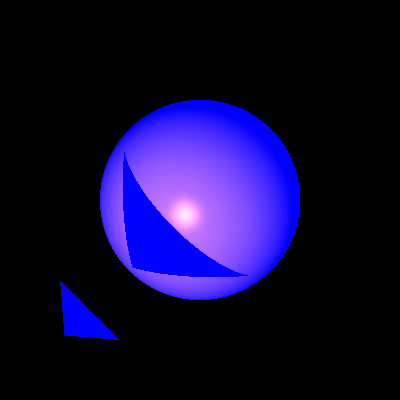
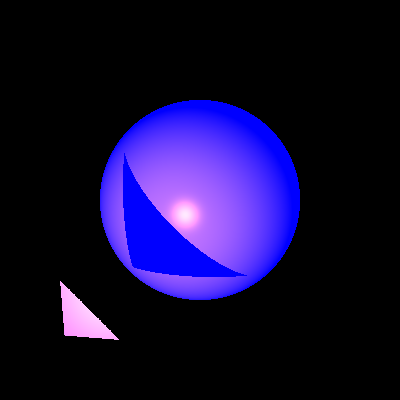
corrected rendering shlav 6

Changed region(s): [[0.15, 0.69, 0.3, 0.87]]

diff --git a/src/renderer/RayTracerBasic.java b/src/renderer/RayTracerBasic.java
@@ -12,6 +12,11 @@ import static primitives.Util.*;
 
 public class RayTracerBasic extends RayTracer {
     private static final double DELTA = 0.1;
+    private static final int MAX_CALC_COLOR_LEVEL = 10;
+    private static final double MIN_CALC_COLOR_K = 0.001;
+    private static final double INITIAL_K = 1.0;
+
+
     /**
      * scene setter
      *
@@ -30,18 +35,50 @@ public class RayTracerBasic extends RayTracer {
     @Override
     public Color traceRay(Ray ray) {
         List<GeoPoint> myPoints = _scene._geometries.findGeoIntersections(ray);
-        if (myPoints != null) {
-            GeoPoint myPoint = ray.getClosestGeoPoint(myPoints);
-            return calcColor(myPoint,ray);
+           GeoPoint closestPoint = ray.getClosestGeoPoint(myPoints);
+           if (closestPoint != null)
+               return calcColor(closestPoint, ray);
+            return _scene._background;
+
+    }
+    private Color calcColor(GeoPoint intersection, Ray ray,int level,Double3 k) {
+        Color color = intersection._geometry.getEmission()
+                .add(calcLocalEffects(intersection,ray,k));
+        return 1 == level ? color : color.add(calcGlobalEffects(intersection, ray, level, k));
+
+    }
+    /**
+     * Calculate color using recursive function
+     *
+     * @param geopoint the point of intersection
+     * @param ray      the ray
+     * @return the color
+     */
+    private Color calcColor(GeoPoint geopoint, Ray ray) {
+        return calcColor(geopoint, ray, MAX_CALC_COLOR_LEVEL,new Double3(INITIAL_K))
+                .add(_scene._ambientLight.getIntensity());
+    }
+    private Color calcGlobalEffects(GeoPoint intersection, Ray inRay, int level, Double3 k) {
+        Color color = Color.BLACK;
+        Double3 kr= intersection._geometry.getMaterial()._kR;Double3 kkr=kr.product(k);
+        Vector n = intersection._geometry.getNormal(intersection._point);
+        if(kkr.lowerThan(MIN_CALC_COLOR_K)==false){
+            Ray reflectedRay = constructReflectedRay(n, intersection._point, inRay);
+            GeoPoint reflectedPoint = findClosestIntersection(reflectedRay);
+            if (reflectedPoint != null)
+                color= color.add(calcColor(reflectedPoint,reflectedRay,level-1,kkr).scale(kr));
         }
-        return _scene._background;
+        Double3 kt=intersection._geometry.getMaterial()._kT;Double3 kkt=kt.product(k);
+        if(kkt.lowerThan(MIN_CALC_COLOR_K)==false){
+            Ray refractedRay = constructRefractedRay(n, intersection._point, inRay);
+            GeoPoint refractedPoint = findClosestIntersection(refractedRay);
+            if (refractedPoint != null)
+                color= color.add(calcColor(refractedPoint,refractedRay,level-1,kkt).scale(kt));
+        }
+        return color;
     }
-    private Color calcColor(GeoPoint intersection, Ray ray) {
-        return _scene._ambientLight.getIntensity()
-                .add(intersection._geometry.getEmission())
-                .add(calcLocalEffects(intersection,ray));
-    }
-    private Color calcLocalEffects(GeoPoint intersection, Ray ray) {
+
+    private Color calcLocalEffects(GeoPoint intersection, Ray ray,Double3 k) {
         Vector v = ray.getDir();
         Vector n = intersection._geometry.getNormal(intersection._point);
         double nv= alignZero(n.dotProduct(v));
@@ -54,12 +91,12 @@ public class RayTracerBasic extends RayTracer {
             Vector l = lightSource.getL(intersection._point);
             double nl= alignZero(n.dotProduct(l));
             if (nl * nv> 0) { // sign(nl) == sing(nv)\
-                if (unshaded(intersection, l, n, lightSource)){
-
-                Color lightIntensity= lightSource.getIntensity(intersection._point);
-                color = color.add(calcDiffusive(kd, l, n, lightIntensity).add(
-                        calcSpecular(ks, l, n, v, nShininess, lightIntensity)));
+                if (unshaded(intersection, l, n, lightSource,nv)) {
+                    Color lightIntensity = lightSource.getIntensity(intersection._point);
+                    color = color.add(calcDiffusive(kd, l, n, lightIntensity),
+                            calcSpecular(ks, l, n, v, nShininess, lightIntensity));
                 }
+
             }
         }
         return color;
@@ -99,18 +136,79 @@ public class RayTracerBasic extends RayTracer {
         return lightIntensity.scale(kd.scale(Math.abs(lN)));
     }
 
-    private boolean unshaded(GeoPoint gp, Vector l, Vector n, LightSource ls){
-        Vector lightDir = l.scale(-1);
-        Ray lightRay = new Ray(gp._point, n, lightDir);
+    private boolean unshaded(GeoPoint gp, Vector l, Vector n, LightSource ls,double nv){
+        Vector lightDir = l.scale(-1);// from point to light source
+        Vector epsVector= n.scale(nv<0?DELTA:-DELTA);
+        Point point = gp._point.add(epsVector);
+        Ray lightRay = new Ray(point, n, lightDir);
         List<GeoPoint> intersections = _scene._geometries.findGeoIntersections(lightRay);
-        if (intersections == null)
-            return true;
-        else{
-            for (GeoPoint gp2 : intersections){
-                if (ls.getDistance(gp2._point) < ls.getDistance(gp._point))
+        if (intersections != null) {
+            for (GeoPoint gp2 : intersections) {
+                if (gp2._geometry.getMaterial()._kT.equals(new Double3(0.0))) {
                     return false;
+                }
             }
         }
         return true;
     }
+    private double transparency(GeoPoint gp, Vector l, Vector n, LightSource ls,double nv){
+        Vector lightDir = l.scale(-1);// from point to light source
+        Vector epsVector= n.scale(nv<0?DELTA:-DELTA);
+        Point point = gp._point.add(epsVector);
+        Ray lightRay = new Ray(point, n, lightDir);
+        double lightDistance = ls.getDistance(gp._point);
+        var intersections = _scene._geometries.findGeoIntersections(lightRay);
+        if (intersections == null) return 1.0; //no intersection
+        Double3 ktr =new Double3( 1.0);
+        for (GeoPoint geoPoint : intersections) {
+            if (alignZero(geoPoint._point.distance(gp._point) - lightDistance) <= 0) {
+              ktr=   ktr.scale(geoPoint._geometry.getMaterial()._kT)0;
+                if (ktr.lowerThan( MIN_CALC_COLOR_K)) return 0.0;
+            }
+        }
+        return ktr;
+    }
+    /**
+     * Construct the ray refracted by an intersection with the geometry
+     * @param n normal to the geometry at intersection
+     * @param point the intersection point
+     * @param innerRay the ray entering
+     * @return refracted ray (in our project there is no refraction incidence, so we return a new ray with the same characteristics)
+     */
+    private Ray constructRefractedRay(Vector n, Point point, Ray innerRay) {
+        return new Ray(point, innerRay.getDir(), n);
+    }
+
+    /**
+     * Construct the ray getting reflected on an intersection point
+     * @param n normal to the point
+     * @param point the intersection point
+     * @param innerRay the ray entering at the intersection
+     * @return the reflected ray
+     */
+    private Ray constructReflectedRay(Vector n, Point point, Ray innerRay) {
+        //r = v - 2 * (v*n) * n
+        //r is the reflected ray
+        Vector v = innerRay.getDir();
+        Vector r = null;
+        try {
+            r = v.substract(n.scale(v.dotProduct(n)).scale(2)).normalize();
+        } catch (Exception e) {
+            return null;
+        }
+        return new Ray(point, r, n);
+    }
+
+    /**
+     * Find the closest intersection point between a ray base and the scene's geometries
+     * @param ray the ray
+     * @return the closest point
+     */
+    private GeoPoint findClosestIntersection(Ray ray) {
+        List<GeoPoint> geoPoints = _scene._geometries.findGeoIntersections(ray);
+        return ray.getClosestGeoPoint(geoPoints);
+    }
+
+
+
 }

diff --git a/unitTests/renderer/ReflectionRefractionTests.java b/unitTests/renderer/ReflectionRefractionTests.java
@@ -1,0 +1,111 @@
+/**
+ * 
+ */
+package renderer;
+
+import org.junit.jupiter.api.Test;
+
+import static java.awt.Color.*;
+
+import renderer.ImageWriter;
+import lighting.*;
+import geometries.*;
+import primitives.*;
+import renderer.*;
+import renderer.scene.Scene;
+
+
+/**
+ * Tests for reflection and transparency functionality, test for partial shadows
+ * (with transparency)
+ * 
+ * @author dzilb
+ */
+public class ReflectionRefractionTests {
+	private Scene scene = new Scene.SceneBuilder("Test scene").build();
+
+	/**
+	 * Produce a picture of a sphere lighted by a spot light
+	 */
+	@Test
+	public void twoSpheres() {
+		Camera camera = new Camera(new Point(0, 0, 1000), new Vector(0, 0, -1), new Vector(0, 1, 0)) //
+				.setVPSize(150, 150).setVPDistance(1000);
+
+		scene._geometries.add( //
+				new Sphere(new Point(0, 0, -50), 50d).setEmission(new Color(BLUE)) //
+						.setMaterial(new Material().setKd(0.4).setKs(0.3).setnShininess(100).setKt(0.3)),
+				new Sphere(new Point(0, 0, -50), 25d).setEmission(new Color(RED)) //
+						.setMaterial(new Material().setKd(0.5).setKs(0.5).setnShininess(100)));
+		scene.lights.add( //
+				new SpotLight(new Color(1000, 600, 0), new Point(-100, -100, 500), new Vector(-1, -1, -2)) //
+						.setKl(0.0004).setKq(0.0000006));
+
+		camera.setImageWriter(new ImageWriter("refractionTwoSpheres", 500, 500)) //
+				.setRayTracer(new RayTracerBasic(scene)) //
+				.renderImage();
+		camera.writeToImage();
+	}
+
+	/**
+	 * Produce a picture of a sphere lighted by a spot light
+	 */
+	@Test
+	public void twoSpheresOnMirrors() {
+		Camera camera = new Camera(new Point(0, 0, 10000), new Vector(0, 0, -1), new Vector(0, 1, 0)) //
+				.setVPSize(2500, 2500).setVPDistance(10000); //
+
+		scene._ambientLight= new AmbientLight(new Color(255, 255, 255), new Double3(0.1));
+
+		scene._geometries.add( //
+				new Sphere(new Point(-950, -900, -1000), 400d).setEmission(new Color(0, 0, 100)) //
+						.setMaterial(new Material().setKd(0.25).setKs(0.25).setnShininess(20).setKt(0.5)),
+				new Sphere(new Point(-950, -900, -1000), 200d).setEmission(new Color(100, 20, 20)) //
+						.setMaterial(new Material().setKd(0.25).setKs(0.25).setnShininess(20)),
+				new Triangle(new Point(1500, -1500, -1500), new Point(-1500, 1500, -1500), new Point(670, 670, 3000)) //
+						.setEmission(new Color(20, 20, 20)) //
+						.setMaterial(new Material().setKr(1)),
+				new Triangle(new Point(1500, -1500, -1500), new Point(-1500, 1500, -1500),
+						new Point(-1500, -1500, -2000)) //
+						.setEmission(new Color(20, 20, 20)) //
+						.setMaterial(new Material().setKr(0.5)));
+
+		scene.lights.add(new SpotLight(new Color(1020, 400, 400), new Point(-750, -750, -150), new Vector(-1, -1, -4)) //
+				.setKl(0.00001).setKq(0.000005));
+
+		ImageWriter imageWriter = new ImageWriter("reflectionTwoSpheresMirrored", 500, 500);
+		camera.setImageWriter(imageWriter) //
+				.setRayTracer(new RayTracerBasic(scene)) //
+				.renderImage();
+		camera.writeToImage();
+	}
+
+	/**
+	 * Produce a picture of a two triangles lighted by a spot light with a partially
+	 * transparent Sphere producing partial shadow
+	 */
+	@Test
+	public void trianglesTransparentSphere() {
+		Camera camera = new Camera(new Point(0, 0, 1000), new Vector(0, 0, -1), new Vector(0, 1, 0)) //
+				.setVPSize(200, 200).setVPDistance(1000);
+
+		scene._ambientLight=new AmbientLight(new Color(WHITE), new Double3(0.15));
+
+		scene._geometries.add( //
+				new Triangle(new Point(-150, -150, -115), new Point(150, -150, -135), new Point(75, 75, -150)) //
+						.setMaterial(new Material().setKd(0.5).setKs(0.5).setnShininess(60)), //
+				new Triangle(new Point(-150, -150, -115), new Point(-70, 70, -140), new Point(75, 75, -150)) //
+						.setMaterial(new Material().setKd(0.5).setKs(0.5).setnShininess(60)), //
+				new Sphere(new Point(60, 50, -50), 30d).setEmission(new Color(BLUE)) //
+						.setMaterial(new Material().setKd(0.2).setKs(0.2).setnShininess(30).setKt(0.6)));
+
+		scene.lights.add(new SpotLight(new Color(700, 400, 400), new Point(60, 50, 0), new Vector(0, 0, -1)) //
+				.setKl(4E-5).setKq(2E-7));
+
+		ImageWriter imageWriter = new ImageWriter("refractionShadow", 600, 600);
+		camera.setImageWriter(imageWriter) //
+				.setRayTracer(new RayTracerBasic(scene)) //
+				.renderImage() ;
+		camera.writeToImage();
+	}
+}

diff --git a/src/primitives/Material.java b/src/primitives/Material.java
@@ -3,7 +3,9 @@ package primitives;
 public class Material {
    public Double3 _kD=new Double3(0d);
    public Double3 _kS=new Double3(0d);
-   public int nShininess=0;
+   public Double3 _kT=new Double3(0d);
+   public Double3 _kR=new Double3(0d);
+    public int nShininess=0;
 
     public Material setKd(double kD) {
         _kD = new Double3(kD);
@@ -32,5 +34,14 @@ public class Material {
 
     public int getnShininess() {
         return nShininess;
+    }
+
+    public Material setKr(double kR) {
+        _kR = new Double3(kR);
+        return this;
+    }
+    public Material setKt(double kT) {
+        _kT = new Double3(kT);
+        return this;
     }
 }

diff --git a/src/geometries/Triangle.java b/src/geometries/Triangle.java
@@ -48,9 +48,9 @@ public class Triangle extends Polygon{
         if((num1>0&&num2>0&&num3>0)||(num1<0&&num2<0&&num3<0)) {
             Plane pl = new Plane(l.get(0), l.get(1), l.get(2));
             List<GeoPoint> geoPoints =new LinkedList<>();
-if(pl.findIntersections(ray) != null)
-            for ( Point pt : pl.findIntersections(ray) ) {
-                geoPoints.add( new GeoPoint(this,pt));
+            if(pl.findIntersections(ray) != null)
+                for ( Point pt : pl.findIntersections(ray) ) {
+                    geoPoints.add( new GeoPoint(this,pt));
             }
             return  geoPoints;
         }

diff --git a/src/primitives/Ray.java b/src/primitives/Ray.java
@@ -107,7 +107,7 @@ public class Ray {
      * @return the closest point
      */
     public GeoPoint getClosestGeoPoint(List<GeoPoint> points) {
-        if (points == null)
+        if (points == null || points.size()==0)
             return null;
         GeoPoint myPoint = points.get(0);
         for (var point : points
